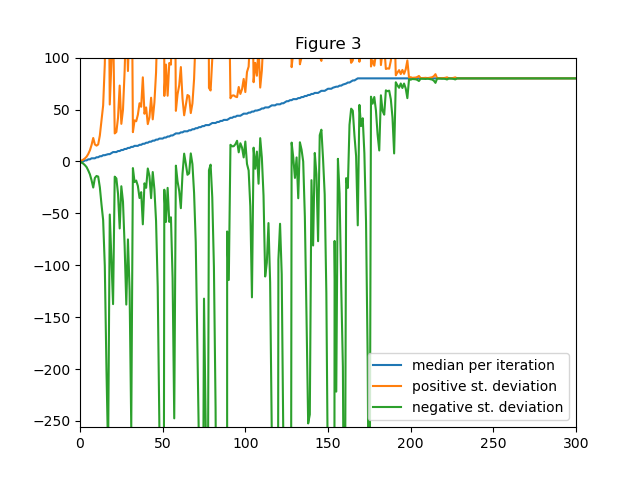
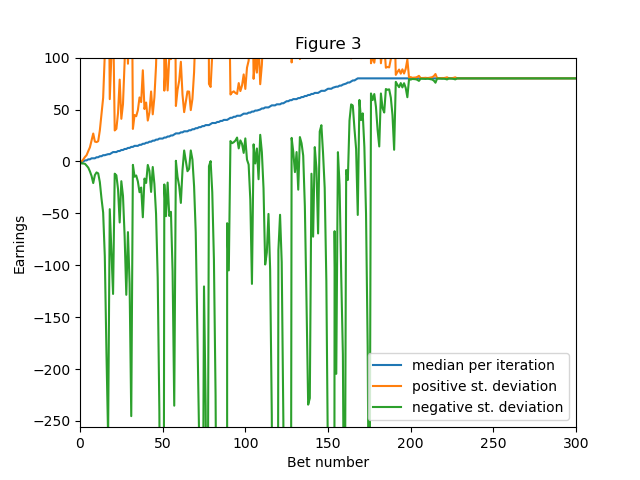
update

diff --git a/ML4T/martingale/martingale.py b/ML4T/martingale/martingale.py
@@ -85,15 +85,13 @@ def roulette(win_prob):
                 record.append(episode_winnings)
 
 
-    # print(bets)
-    # print(record)
-    # print(record)
+
     return episode_winnings
 def test_code():  		  	   		 	   		  		  		    	 		 		   		 		  
     """  		  	   		 	   		  		  		    	 		 		   		 		  
     Method to test your code  		  	   		 	   		  		  		    	 		 		   		 		  
     """
-    np.set_printoptions(suppress=True)
+
 
 
     win_prob = 18/38  # set appropriately to the probability of a win
@@ -122,7 +120,7 @@ def test_code():
     #             bets += 1
     #             won = get_spin_result(win_prob)
     #             if won == True:
-    #                 # print('you won', bet_amount)
+    #
     #                 episode_winnings += bet_amount
     #             else:
     #                 episode_winnings -= bet_amount
@@ -145,12 +143,12 @@ def test_code():
     # plt.ylim(-256, 100)
     # #
     # plt.savefig('Figure 1.png')
-
+    #plt.close()
 
 
 
     '''
-    Figure 2
+    Figure 2 and 3
     '''
 
     # total_results = np.zeros((1000, 1001))
@@ -178,48 +176,62 @@ def test_code():
     #                 episode_winnings -= bet_amount
     #                 bet_amount *= 2
     #             total_results[i][bets] = episode_winnings
-    # # print('\n', total_results)
+    #
     # ##forward fill algo
     #     for j in range(bets + 1, 1001):
     #         total_results[i, j] = total_results[i, j - 1]
-            # print(total_results[i, j - 1])
-
-
-    #Figure 2 - calc mean
+    #
+    #
+    #
+    # '''
+    # Figure 2
+    # '''
+    #
+    #
     # mean_per_round = np.mean(total_results, axis = 0)
     # std_per_round = np.std(total_results, axis = 0)
-    # std_per_round_pos = mean_per_round + std_per_round
-    # std_per_round_neg = mean_per_round - std_per_round
+    # mean_std_per_round_pos = mean_per_round + std_per_round
+    # mean_std_per_round_neg = mean_per_round - std_per_round
     #
-    # plt.plot(mean_per_round, label = "mean per bet iteration")
-    # plt.plot(std_per_round_pos, label = "positive st. deviation")
-    # plt.plot(std_per_round_neg, label = "negative st. deviation")
+    #
+    # plt.plot(mean_per_round, label = "mean per iteration")
+    # plt.plot(mean_std_per_round_pos, label = "positive st. deviation")
+    # plt.plot(mean_std_per_round_neg, label = "negative st. deviation")
     # plt.title('Figure 2')
+    # plt.xlabel('Bet number')
+    # plt.ylabel('Earnings')
     # plt.xlim(0, 300)
     # plt.ylim(-256, 100)
     # plt.legend()
     # plt.savefig('Figure 2')
-    # plt.show()
+    # plt.close()
     #
-    # #Figure 3
+    # '''
+    # Figure 3
+    # '''
     # median_per_round = np.median(total_results, axis=0)
+    # std_per_round = np.std(total_results, axis=0)
+    # median_std_per_round_pos = median_per_round + std_per_round
+    # median_std_per_round_neg = median_per_round - std_per_round
+    # print(np.max(median_std_per_round_pos))
+    # print(np.min(median_std_per_round_neg))
     # plt.plot(median_per_round, label="median per iteration")
-    # plt.plot(std_per_round_pos, label="positive st. deviation")
-    # plt.plot(std_per_round_neg, label="negative st. deviation")
+    # plt.plot(median_std_per_round_pos, label="positive st. deviation")
+    # plt.plot(median_std_per_round_neg, label="negative st. deviation")
+    #
     # plt.title('Figure 3')
     # plt.legend()
+    # plt.xlabel('Bet number')
+    # plt.ylabel('Earnings')
     # plt.xlim(0, 300)
     # plt.ylim(-256, 100)
     # plt.savefig('Figure 3')
-
-    '''
-    Experiment 3
-    '''
+    #plt.close()
 
 
 
     '''
-    Experiment 4
+    Experiment 2
     '''
     total_results = np.zeros((1000, 1001))
 
@@ -243,10 +255,10 @@ def test_code():
             bet_amount = 1
             while not won:
                 bets += 1
-                # print(bet_amount)
+
                 won = get_spin_result(win_prob)
                 if won == True:
-                    # print('you won', bet_amount)
+
                     episode_winnings += bet_amount
                     bankroll += bet_amount
                 else:
@@ -258,112 +270,73 @@ def test_code():
                         bet_amount = episode_winnings+256
                 total_results[i][bets] = episode_winnings
             ##forward fill algo
-            for j in range(bets + 1, 1000):
+            for j in range(bets + 1, 1001):
                 total_results[i, j] = total_results[i, j - 1]
-                # print(total_results[i, j - 1])
 
-    # print(sum(np.any(total_results[:, 1000] == 80)))
 
+
+    '''
+    Figure 4
+    '''
+    # print(total_results[total_results[:, 1000] == 80, :].shape)
+    # print(total_results[:, 999])
+    # count = 0
+    # for i in range(len(total_results)):
+    #     if total_results[i, 1000] == 80:
+    #         count += 1
+    # print(count)
     mean_per_round = np.mean(total_results, axis = 0)
     std_per_round = np.std(total_results, axis = 0)
-    std_per_round_pos = mean_per_round + std_per_round
-    std_per_round_neg = mean_per_round - std_per_round
+    mean_std_per_round_pos = mean_per_round + std_per_round
+    mean_std_per_round_neg = mean_per_round - std_per_round
+
+    print(np.max(std_per_round))
+    print(np.min(std_per_round))
+    print('----------------------------------')
+    print(np.max(mean_std_per_round_pos))
+    print(np.min(mean_std_per_round_pos))
+    print('------------------------')
+    print(np.max(mean_std_per_round_neg))
+    print(np.min(mean_std_per_round_neg))
 
     plt.title('Figure 4')
     plt.plot(mean_per_round, label = 'mean')
     plt.plot(std_per_round_pos, label = "positive st. deviation")
     plt.plot(std_per_round_neg, label = "negative standard deviation")
     plt.legend()
+    plt.xlabel('Bet number')
+    plt.ylabel('Earnings')
     plt.xlim(0, 1000)
     plt.ylim(-256, 100)
     plt.savefig('Figure4.png')
-    plt.show()
+    plt.close()
 
 
-    # print(total_results[:, 990:1000])
-    # arr = [:, 999:1000]
-    # print(arr.shape)
-    # print(np.mean(total_results[:, 999:1000], axis = 1))
-    # print(np.median(total_results[:, 999:1000], axis = 1))
 
-    #figure 5
+    '''
+    Figure 5
+    '''
     median_per_round = np.median(total_results, axis=0)
     std_per_round = np.std(total_results, axis=0)
-    std_per_round_pos = median_per_round + std_per_round
-    std_per_round_neg = median_per_round - std_per_round
+    median_std_per_round_pos = median_per_round + std_per_round
+    median_std_per_round_neg = median_per_round - std_per_round
 
     # plt.figure('figure 5')
     plt.plot(median_per_round, label = 'median')
     plt.plot(std_per_round_pos, label = 'positive st. deviation')
     plt.plot(std_per_round_neg, label = 'negative st. deviation')
     plt.title('Figure 5')
+    plt.xlabel('Bet number')
+    plt.ylabel('Earnings')
     plt.legend()
     plt.xlim(0, 300)
     plt.ylim(-256, 100)
 
     plt.savefig('Figure 5.png')
-    plt.show()
+    plt.close()
 
 
 
-
-
-
-
-    '''
-    Experiment 5
-    '''
-
-    # total_results = np.zeros((1000, 1001))
-    #
-    # median_per_round = np.zeros((1, 1001))
-    #
-    # std_per_round_pos = np.zeros((1, 1001))
-    # std_per_round_neg = np.zeros((1, 1001))
-    # episode_winnings = 0
-    # count = 0
-    # bankroll = 256
-    #
-    # for i in range(1000):
-    #
-    #     episode_winnings = 0
-    #     bets = 0
-    #
-    #     while episode_winnings < 80 and episode_winnings > -256 and bets < 1000:
-    #         won = False
-    #         bet_amount = 1
-    #         while not won:
-    #             bets += 1
-    #             # print(bet_amount)
-    #             won = get_spin_result(win_prob)
-    #             if won == True:
-    #                 # print('you won', bet_amount)
-    #                 episode_winnings += bet_amount
-    #                 bankroll += bet_amount
-    #             else:
-    #                 # you lost so now double your bet amount, unless bet_amount is greater than money u have
-    #                 episode_winnings -= bet_amount
-    #                 bet_amount *= 2
-    #
-    #             if episode_winnings + 256 < bet_amount:
-    #                 bet_amount = episode_winnings+256
-    #             total_results[i][bets] = episode_winnings
-    #
-    #         ##forward fill algo
-    #         for j in range(bets + 1, 1000):
-    #             total_results[i, j] = total_results[i, j - 1]
-    #
-    # median_per_round = np.median(total_results, axis = 0)
-    # std_per_round = np.std(total_results, axis = 0)
-    # std_per_round_pos = median_per_round + std_per_round
-    # std_per_round_neg = median_per_round - std_per_round
-    # # plt.figure('figure 5')
-    # # plt.plot(median_per_round)
-    # # plt.plot(std_per_round_pos)
-    # # plt.plot(std_per_round_neg)
-    # # plt.xlim(0, 300)
-    # # plt.ylim(-256, 100)
-    # # plt.show()
 
 
 
